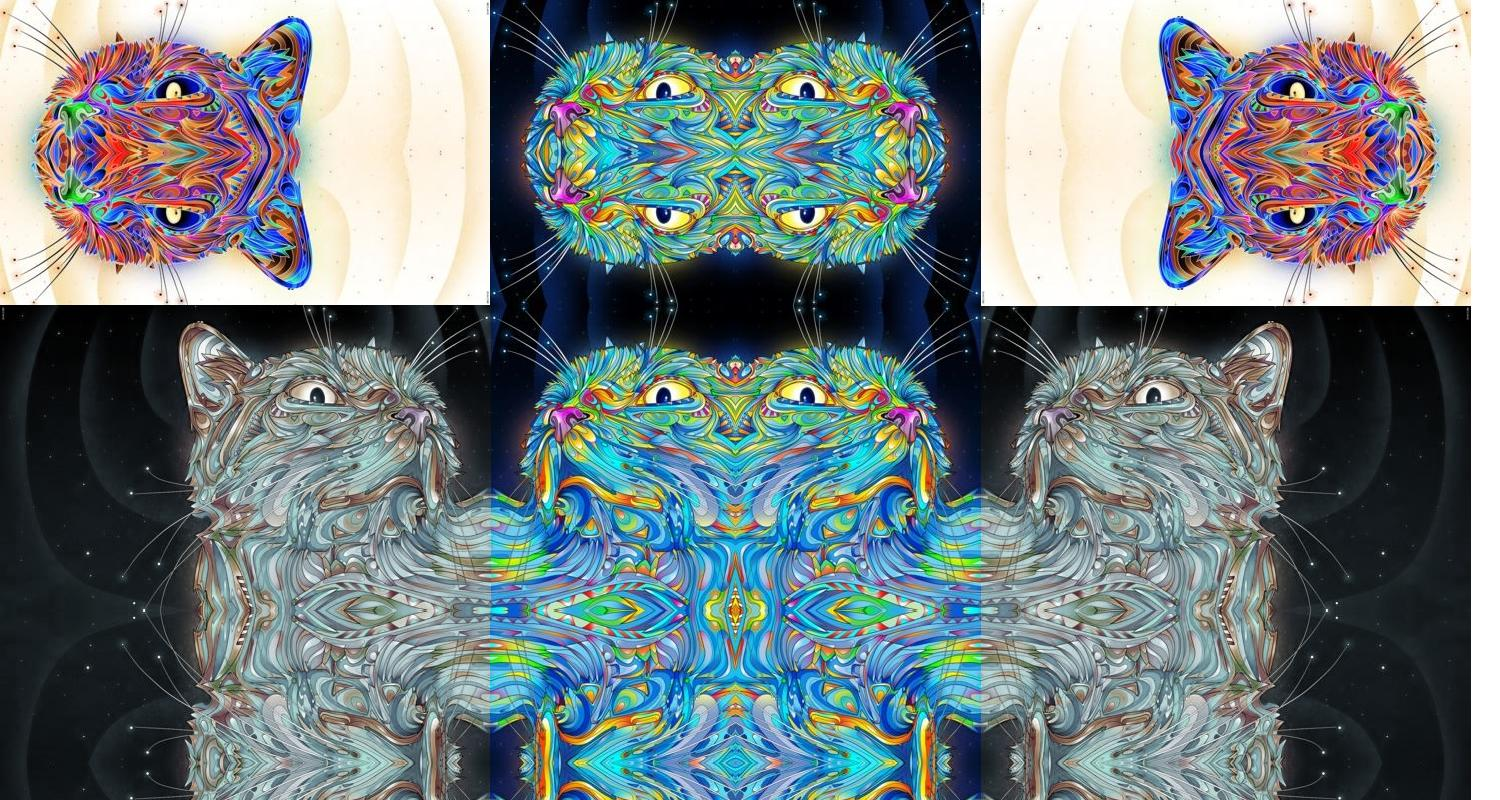
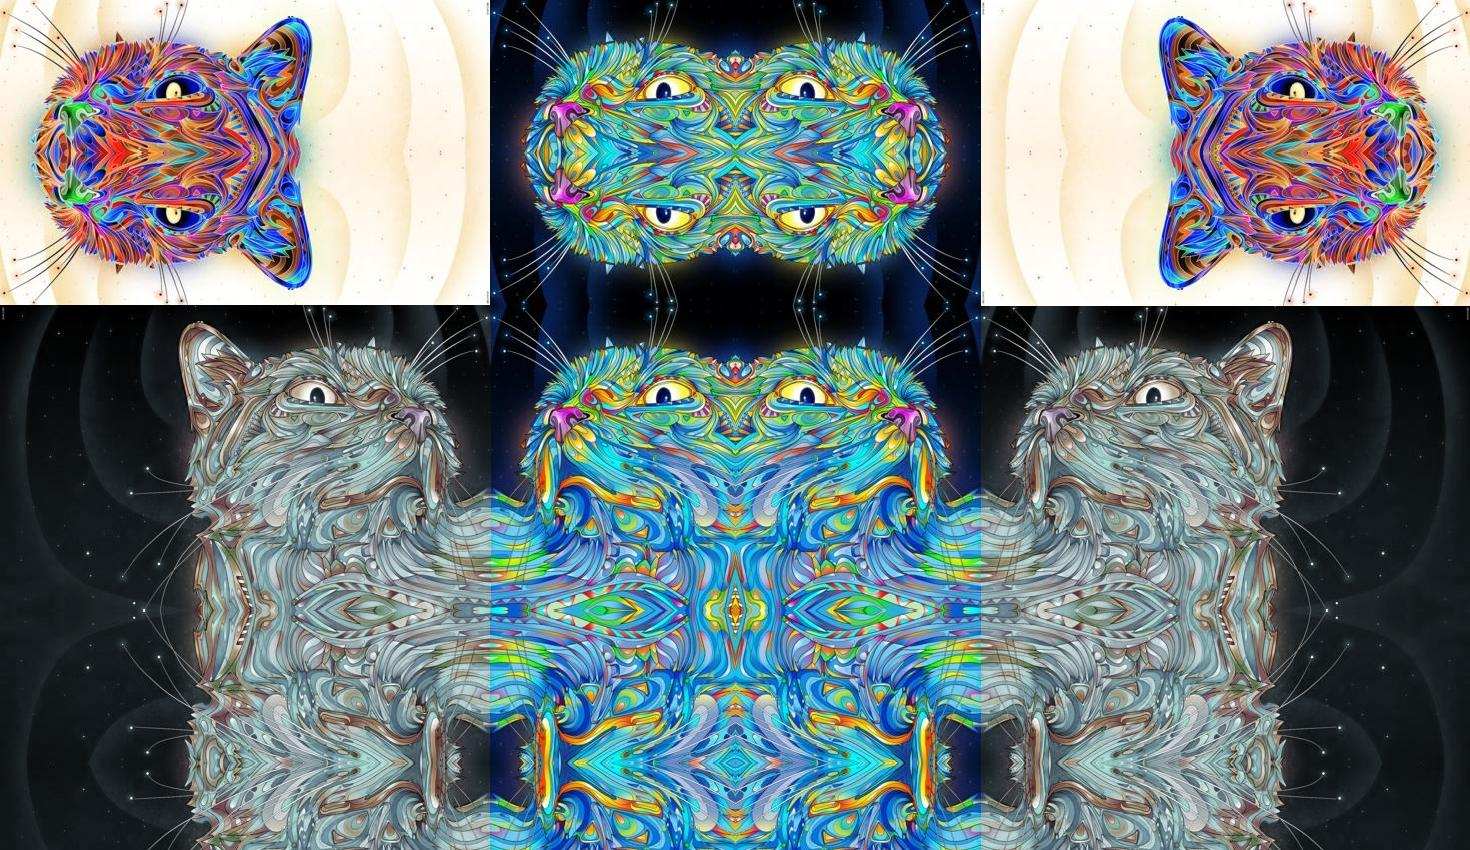
Done

diff --git a/PictureLab/classes/PictureTester.java b/PictureLab/classes/PictureTester.java
@@ -112,7 +112,7 @@ public class PictureTester
   /** Method to test the collage method */
   public static void testCollage()
   {
-    Picture canvas = new Picture(800, 1500);
+    Picture canvas = new Picture(850, 1470);
     canvas.createCollage();
     canvas.explore();
   }
